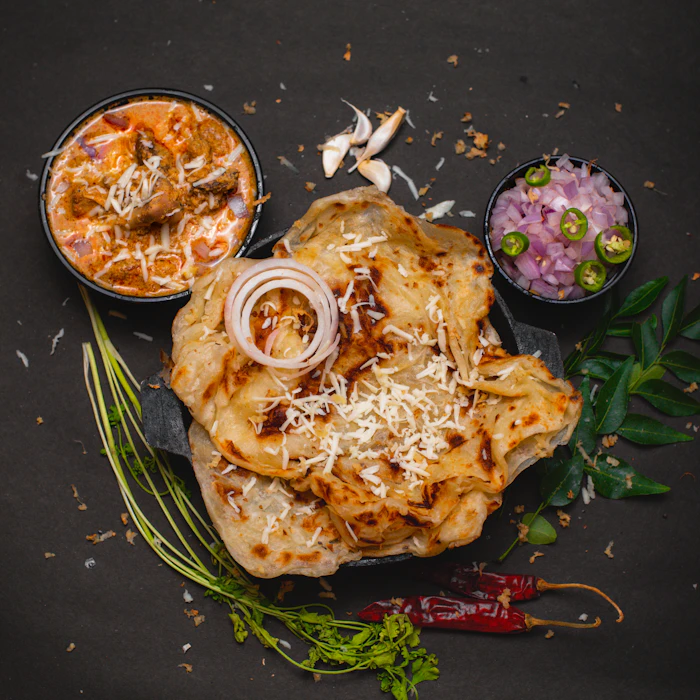
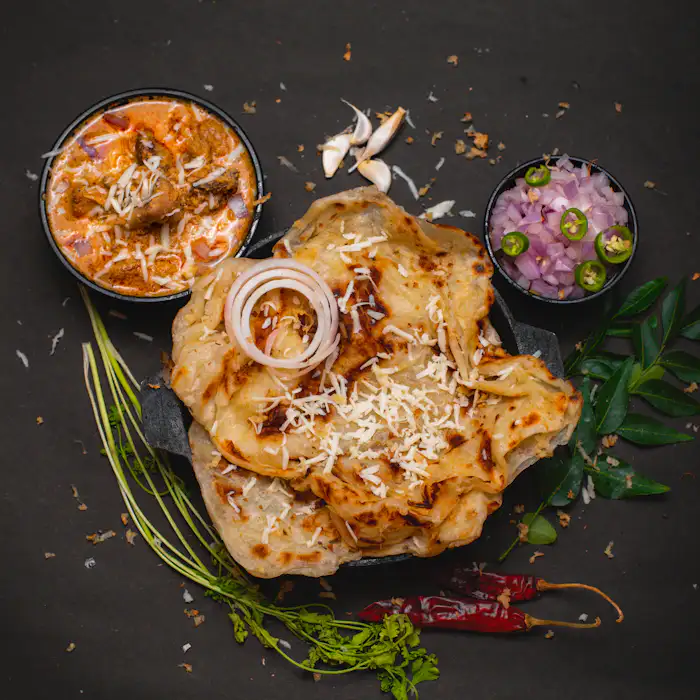
images

diff --git a/css/contact.css b/css/contact.css
@@ -84,41 +84,6 @@
 }
 .btn-hero-outline:hover { background: var(--color-text-on-dark); color: #171310; }
 
-.hero-scatter-photo {
-  position: absolute;
-  z-index: 2;
-  margin: 0;
-  border-radius: var(--radius-md);
-  overflow: hidden;
-  border: 5px solid rgba(255, 255, 255, 0.9);
-  box-shadow: 0 20px 45px rgba(23, 19, 16, 0.3);
-}
-.hero-scatter-photo img { width: 100%; height: 100%; object-fit: cover; display: block; }
-.hero-scatter-main {
-  top: 6%;
-  left: 6%;
-  width: clamp(140px, 14vw, 190px);
-  aspect-ratio: 3 / 4;
-  transform: rotate(-8deg);
-}
-.hero-scatter-1 {
-  bottom: 6%;
-  left: 3%;
-  width: clamp(110px, 11vw, 150px);
-  aspect-ratio: 1 / 1;
-  transform: rotate(10deg);
-}
-.hero-scatter-2 {
-  top: 6%;
-  right: 5%;
-  width: clamp(120px, 12vw, 170px);
-  aspect-ratio: 1 / 1;
-  transform: rotate(9deg);
-}
-@media (max-width: 900px) {
-  .hero-scatter-photo { display: none; }
-}
-
 #contact-form { scroll-margin-top: calc(var(--nav-height) + 1rem); }
 
 .contact-main-section {

diff --git a/js/signin.js b/js/signin.js
@@ -9,6 +9,15 @@
   }
 
   var EMAIL_RE = /^[^\s@]+@[^\s@]+\.[^\s@]+$/;
+  var NAME_RE = /^[A-Za-z][A-Za-z '-]*$/;
+
+  /* ---- Full Name: letters only as the user types ---- */
+  var signupNameEl = document.getElementById('su-name');
+  if (signupNameEl) {
+    signupNameEl.addEventListener('input', function () {
+      signupNameEl.value = signupNameEl.value.replace(/[^A-Za-z '-]/g, '');
+    });
+  }
 
   /* ---- Tab switching ---- */
   var tabs = document.querySelectorAll('.role-tab');
@@ -78,7 +87,9 @@
     Object.keys(errs).forEach(function (k) { errs[k].textContent = ''; });
 
     var valid = true;
-    if (!nameEl.value.trim()) { errs.name.textContent = 'Please enter your name.'; valid = false; }
+    var name = nameEl.value.trim();
+    if (!name) { errs.name.textContent = 'Please enter your name.'; valid = false; }
+    else if (!NAME_RE.test(name)) { errs.name.textContent = 'Name can only contain letters, spaces, hyphens and apostrophes.'; valid = false; }
 
     var email = emailEl.value.trim();
     if (!email || !EMAIL_RE.test(email)) { errs.email.textContent = 'Please enter a valid email address.'; valid = false; }
@@ -92,8 +103,8 @@
 
     if (!valid) return;
 
-    Auth.registerUser(nameEl.value.trim(), email, passwordEl.value);
-    Auth.setSession({ email: email.toLowerCase(), name: nameEl.value.trim(), role: 'customer' });
+    Auth.registerUser(name, email, passwordEl.value);
+    Auth.setSession({ email: email.toLowerCase(), name: name, role: 'customer' });
     if (window.refreshAuthNav) refreshAuthNav();
     showToast('Account created — welcome!');
     setTimeout(function () { window.location.href = 'customer-dashboard.html'; }, 500);

diff --git a/contact.html b/contact.html
@@ -94,14 +94,11 @@
 
 <main id="main">
   <section class="contact-hero-bold fade-in-section">
-    <video class="contact-hero-video" autoplay muted loop playsinline poster="images/video/contact-bg-poster.jpg" aria-hidden="true">
+    <video class="contact-hero-video" autoplay muted loop playsinline poster="images/video/contact-bg-poster.webp" aria-hidden="true">
       <source src="images/video/contact-bg.webm" type="video/webm">
       <source src="images/video/contact-bg.mp4" type="video/mp4">
     </video>
     <div class="container contact-hero-inner">
-      <figure class="hero-scatter-photo hero-scatter-main"><img src="images/dishes/m08.webp" alt="" loading="lazy"></figure>
-      <figure class="hero-scatter-photo hero-scatter-1"><img src="images/dishes/m35.webp" alt="" loading="lazy"></figure>
-      <figure class="hero-scatter-photo hero-scatter-2"><img src="images/dishes/m30.webp" alt="" loading="lazy"></figure>
       <div class="contact-hero-copy">
         <nav class="breadcrumb contact-hero-breadcrumb" aria-label="Breadcrumb">
           <a href="index.html">Home</a><span class="sep">/</span><span aria-current="page">Contact</span>
@@ -222,7 +219,7 @@
 </main>
 
 <footer class="site-footer">
-  <video class="footer-video" autoplay muted loop playsinline poster="images/video/parking-bg-poster.jpg" aria-hidden="true">
+  <video class="footer-video" autoplay muted loop playsinline poster="images/video/parking-bg-poster.webp" aria-hidden="true">
     <source src="images/video/parking-bg.webm" type="video/webm">
     <source src="images/video/parking-bg.mp4" type="video/mp4">
   </video>

diff --git a/index.html b/index.html
@@ -100,7 +100,7 @@
 
   <!-- ===== Hero ===== -->
   <section class="hero" style="background-image:url('images/hero-bg.webp')">
-    <video class="hero-video" autoplay muted loop playsinline poster="images/video/hero-bg-poster.jpg" aria-hidden="true">
+    <video class="hero-video" autoplay muted loop playsinline poster="images/video/hero-bg-poster.webp" aria-hidden="true">
       <source src="images/video/hero-bg.webm" type="video/webm">
       <source src="images/video/hero-bg.mp4" type="video/mp4">
     </video>
@@ -181,7 +181,7 @@
         <p class="eyebrow">Our Story</p>
         <h2>Cooked with tradition, served with care</h2>
         <p class="lede">Stackly started as a small family kitchen with one goal: bring the honest, generous flavor of home-style Indian cooking to every doorstep. Every dish is made fresh to order using traditional techniques — no shortcuts, no compromises.</p>
-        <p class="lede">Our mission is simple — exceptional food, fair prices, and a delivery experience as considered as the meal itself.</p>
+        <p class="lede">Our mission is simple — exceptional food, fair prices, and a delivery experience as considered as the meal itself. That's the same standard we hold in every neighborhood we deliver to, whether it's your first order or your fiftieth.</p>
         <a href="about.html" class="btn btn-outline" style="margin-top:1rem">Learn More About Us</a>
       </div>
       <div class="about-story-media-home fade-in-section">
@@ -290,7 +290,7 @@
 
 <!-- ===== Footer ===== -->
 <footer class="site-footer">
-  <video class="footer-video" autoplay muted loop playsinline poster="images/video/parking-bg-poster.jpg" aria-hidden="true">
+  <video class="footer-video" autoplay muted loop playsinline poster="images/video/parking-bg-poster.webp" aria-hidden="true">
     <source src="images/video/parking-bg.webm" type="video/webm">
     <source src="images/video/parking-bg.mp4" type="video/mp4">
   </video>

diff --git a/about.html b/about.html
@@ -94,7 +94,7 @@
 
 <main id="main">
   <section class="page-hero" style="background-image:url('images/hero-bg.webp')">
-    <video class="page-hero-video" autoplay muted loop playsinline poster="images/video/about-bg-poster.jpg" aria-hidden="true">
+    <video class="page-hero-video" autoplay muted loop playsinline poster="images/video/about-bg-poster.webp" aria-hidden="true">
       <source src="images/video/about-bg.webm" type="video/webm">
       <source src="images/video/about-bg.mp4" type="video/mp4">
     </video>
@@ -132,6 +132,7 @@
         <h2>Where every recipe has a story</h2>
         <p class="lede">Stackly began in a small home kitchen in Delhi, where recipes were passed down through generations — measured in handfuls, not grams, and seasoned with patience. What started as meals cooked for neighbors grew into a restaurant built on the same principle: food should taste like it was made by someone who cares.</p>
         <p class="lede">Today we serve authentic North and South Indian dishes across the city, slow-cooking gravies for hours and grinding our own spice blends every morning — because shortcuts change the flavor, and we refuse to compromise on that.</p>
+        <p class="lede">That same care follows every order out the door — in how we package each meal, train our delivery team, and check in after it's served. It's a promise made in that first home kitchen, and one we've kept with every plate since 2014.</p>
       </div>
     </div>
   </section>
@@ -220,7 +221,7 @@
 </main>
 
 <footer class="site-footer">
-  <video class="footer-video" autoplay muted loop playsinline poster="images/video/parking-bg-poster.jpg" aria-hidden="true">
+  <video class="footer-video" autoplay muted loop playsinline poster="images/video/parking-bg-poster.webp" aria-hidden="true">
     <source src="images/video/parking-bg.webm" type="video/webm">
     <source src="images/video/parking-bg.mp4" type="video/mp4">
   </video>

diff --git a/signin.html b/signin.html
@@ -153,7 +153,7 @@
               <label for="su-name" class="sr-only">Full Name <span class="required">*</span></label>
               <div class="input-icon-wrap">
                 <svg class="input-icon" width="18" height="18" viewBox="0 0 24 24" fill="none" stroke="currentColor" stroke-width="2" aria-hidden="true"><circle cx="12" cy="8" r="3.5"/><path d="M4.5 20c0-3.5 3.4-6 7.5-6s7.5 2.5 7.5 6"/></svg>
-                <input type="text" id="su-name" name="name" autocomplete="name" required placeholder="Full Name" aria-describedby="err-su-name">
+                <input type="text" id="su-name" name="name" autocomplete="name" required placeholder="Full Name" pattern="[A-Za-z][A-Za-z '\-]*" title="Letters, spaces, hyphens and apostrophes only" aria-describedby="err-su-name">
               </div>
               <p class="field-error" id="err-su-name"></p>
             </div>
@@ -194,7 +194,7 @@
 </main>
 
 <footer class="site-footer">
-  <video class="footer-video" autoplay muted loop playsinline poster="images/video/parking-bg-poster.jpg" aria-hidden="true">
+  <video class="footer-video" autoplay muted loop playsinline poster="images/video/parking-bg-poster.webp" aria-hidden="true">
     <source src="images/video/parking-bg.webm" type="video/webm">
     <source src="images/video/parking-bg.mp4" type="video/mp4">
   </video>

diff --git a/css/style.css b/css/style.css
@@ -135,7 +135,7 @@ select:focus-visible,
   margin-inline: auto;
   padding-inline: 1.5rem;
 }
-.section { padding-block: clamp(3rem, 6vw, 5.5rem); }
+.section { padding-block: clamp(4rem, 7vw, 6.5rem); }
 .section-alt { background: var(--color-bg-alt); }
 .section-dark {
   background: var(--color-bg-dark);
@@ -823,6 +823,7 @@ select:focus-visible,
   border-radius: 50%;
   border: 1.5px solid var(--color-border);
   background: var(--color-surface);
+  color: var(--color-text);
   font-weight: 700;
   line-height: 1;
 }

diff --git a/404.html b/404.html
@@ -119,7 +119,7 @@
 </main>
 
 <footer class="site-footer">
-  <video class="footer-video" autoplay muted loop playsinline poster="images/video/parking-bg-poster.jpg" aria-hidden="true">
+  <video class="footer-video" autoplay muted loop playsinline poster="images/video/parking-bg-poster.webp" aria-hidden="true">
     <source src="images/video/parking-bg.webm" type="video/webm">
     <source src="images/video/parking-bg.mp4" type="video/mp4">
   </video>

diff --git a/admin-dashboard.html b/admin-dashboard.html
@@ -186,7 +186,7 @@
 </main>
 
 <footer class="site-footer">
-  <video class="footer-video" autoplay muted loop playsinline poster="images/video/parking-bg-poster.jpg" aria-hidden="true">
+  <video class="footer-video" autoplay muted loop playsinline poster="images/video/parking-bg-poster.webp" aria-hidden="true">
     <source src="images/video/parking-bg.webm" type="video/webm">
     <source src="images/video/parking-bg.mp4" type="video/mp4">
   </video>

diff --git a/cart.html b/cart.html
@@ -138,7 +138,7 @@
 </main>
 
 <footer class="site-footer">
-  <video class="footer-video" autoplay muted loop playsinline poster="images/video/parking-bg-poster.jpg" aria-hidden="true">
+  <video class="footer-video" autoplay muted loop playsinline poster="images/video/parking-bg-poster.webp" aria-hidden="true">
     <source src="images/video/parking-bg.webm" type="video/webm">
     <source src="images/video/parking-bg.mp4" type="video/mp4">
   </video>

diff --git a/checkout.html b/checkout.html
@@ -190,7 +190,7 @@
 </main>
 
 <footer class="site-footer">
-  <video class="footer-video" autoplay muted loop playsinline poster="images/video/parking-bg-poster.jpg" aria-hidden="true">
+  <video class="footer-video" autoplay muted loop playsinline poster="images/video/parking-bg-poster.webp" aria-hidden="true">
     <source src="images/video/parking-bg.webm" type="video/webm">
     <source src="images/video/parking-bg.mp4" type="video/mp4">
   </video>

diff --git a/css/menu.css b/css/menu.css
@@ -5,7 +5,7 @@
   display: grid;
   grid-template-columns: 0.85fr 1.15fr;
   gap: clamp(2rem, 5vw, 4rem);
-  align-items: center;
+  align-items: stretch;
 }
 .menu-intro-copy .eyebrow { color: var(--color-primary); }
 .menu-intro-copy h2 {